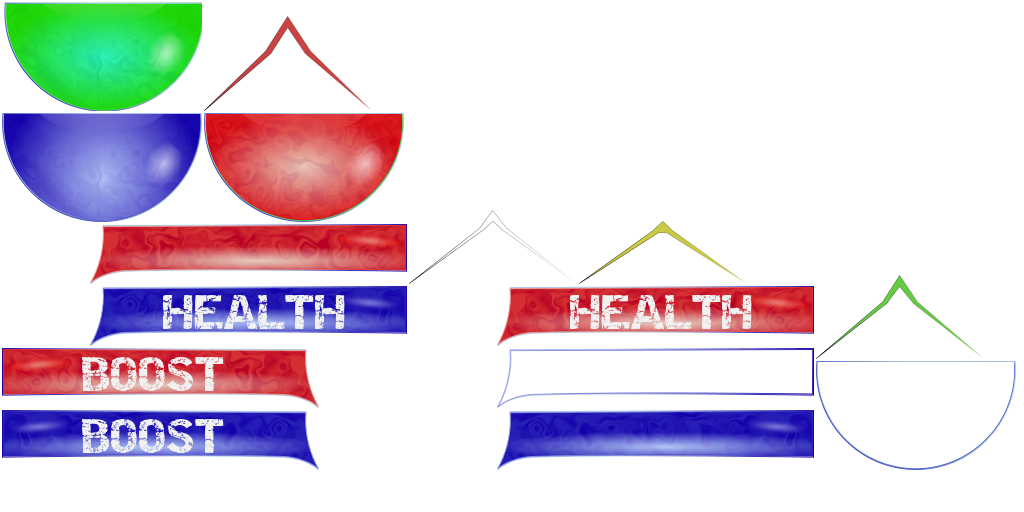
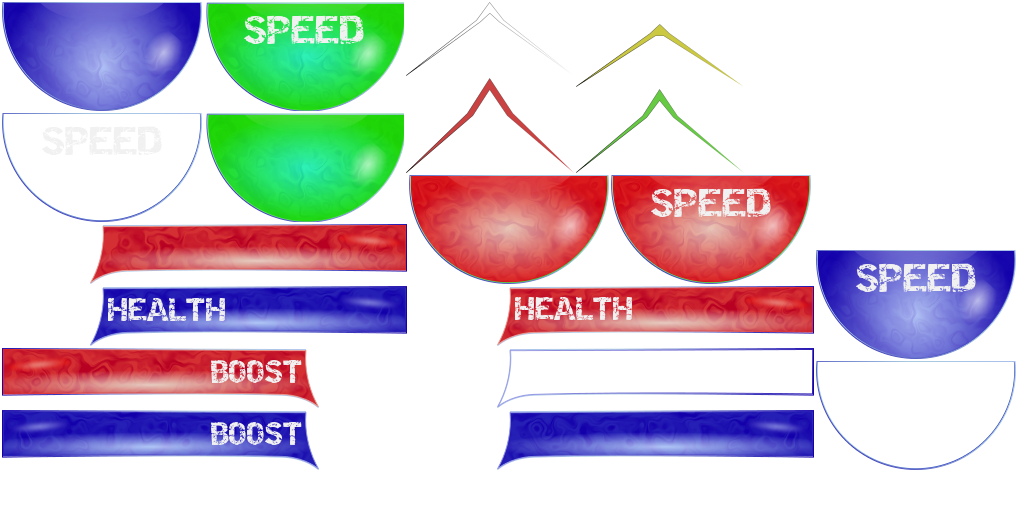
Fixed textBug

diff --git a/core/src/com/araceinspace/Screens/INGAMEScreen.java b/core/src/com/araceinspace/Screens/INGAMEScreen.java
@@ -242,9 +242,9 @@ public class INGAMEScreen extends Screen implements EventSender{
         speedLabel.setStyle(style3);
         speedLabel.setPosition((viewport.getScreenWidth()/2)-speedLabel.getWidth()/2, viewport.getScreenHeight()-speedLabel.getHeight()*1.5f);
 
-        stage.addActor(boostLabel);
-        stage.addActor(healthLabel);
-        stage.addActor(speedLabel);
+        //stage.addActor(boostLabel);
+        //stage.addActor(healthLabel);
+        //stage.addActor(speedLabel);
 
         touchPad = new Touchpad(10, skin, "default");
         touchPad.setBounds(15, 15, Gdx.graphics.getWidth()/2-20,Gdx.graphics.getWidth()/2-20);
@@ -340,20 +340,20 @@ public class INGAMEScreen extends Screen implements EventSender{
         Array<TextureAtlas.AtlasRegion> dirIndicatorYellowRegion = parent.parent.resourceManager.heroAtlas.findRegions("GhostIndicator/indicator-yellow");
         dirIndicatorYellow = dirIndicatorYellowRegion.get(0);
 
-        Array<TextureAtlas.AtlasRegion> ghostIndicatorOutlineRegion = parent.parent.resourceManager.heroAtlas.findRegions("GhostIndicator/ghostIndicator_empty");
+        Array<TextureAtlas.AtlasRegion> ghostIndicatorOutlineRegion = parent.parent.resourceManager.heroAtlas.findRegions("GhostIndicator/ghostIndicator_empty_text");
         velocityIndicatorOutlineTexture = ghostIndicatorOutlineRegion.get(0);
 
         velocityIndicatorOutline = new Image(velocityIndicatorOutlineTexture);
        // ghostIndicatorOutline.setPosition((viewport.getScreenWidth()/2)-ghostIndicatorOutline.getWidth()/2, viewport.getScreenHeight()-ghostIndicatorOutline.getHeight());
         velocityIndicatorOutline.setPosition(-velocityIndicatorOutline.getWidth()/2,(viewport.getScreenHeight()/2)-velocityIndicatorOutline.getHeight());
 
-        Array<TextureAtlas.AtlasRegion> ghostIndicatorRegion = parent.parent.resourceManager.heroAtlas.findRegions("GhostIndicator/ghostIndicator_fill");
+        Array<TextureAtlas.AtlasRegion> ghostIndicatorRegion = parent.parent.resourceManager.heroAtlas.findRegions("GhostIndicator/ghostIndicator_fill_text");
         velocityIndicatorTexture = ghostIndicatorRegion.get(0);
 
-        Array<TextureAtlas.AtlasRegion> ghostIndicatorGreenRegion = parent.parent.resourceManager.heroAtlas.findRegions("GhostIndicator/ghostIndicator_fill_green");
+        Array<TextureAtlas.AtlasRegion> ghostIndicatorGreenRegion = parent.parent.resourceManager.heroAtlas.findRegions("GhostIndicator/ghostIndicator_fill_green_text");
         velocityIndicatorGreenTexture = ghostIndicatorGreenRegion.get(0);
 
-        Array<TextureAtlas.AtlasRegion> ghostIndicatorRedRegion = parent.parent.resourceManager.heroAtlas.findRegions("GhostIndicator/ghostIndicator_red");
+        Array<TextureAtlas.AtlasRegion> ghostIndicatorRedRegion = parent.parent.resourceManager.heroAtlas.findRegions("GhostIndicator/ghostIndicator_red_text");
         velocityIndicatorRedTexture = ghostIndicatorRedRegion.get(0);
 
 
@@ -372,11 +372,11 @@ public class INGAMEScreen extends Screen implements EventSender{
 
        // healthMeterEmpty
 
-        Array<TextureAtlas.AtlasRegion> healthMeterBlueRegion = parent.parent.resourceManager.heroAtlas.findRegions("GhostIndicator/healthMeter_blue");
+        Array<TextureAtlas.AtlasRegion> healthMeterBlueRegion = parent.parent.resourceManager.heroAtlas.findRegions("GhostIndicator/healthMeter_blue_text");
         healthMeterBlue = healthMeterBlueRegion.get(0);
         healthMeterBlue.setRegionWidth(2+viewport.getScreenWidth()/2);
 
-        Array<TextureAtlas.AtlasRegion> healthMeterRedRegion = parent.parent.resourceManager.heroAtlas.findRegions("GhostIndicator/healthMeter_red");
+        Array<TextureAtlas.AtlasRegion> healthMeterRedRegion = parent.parent.resourceManager.heroAtlas.findRegions("GhostIndicator/healthMeter_red_text");
         healthMeterRed = healthMeterRedRegion.get(0);
         healthMeterRed.setRegionWidth(2+viewport.getScreenWidth()/2);
 
@@ -384,13 +384,13 @@ public class INGAMEScreen extends Screen implements EventSender{
         boostMeterEmpty = boostMeterEmptyRegion.get(0);
         boostMeterEmpty.flip(true, false);
 
-        Array<TextureAtlas.AtlasRegion> boostMeterBlueRegion = parent.parent.resourceManager.heroAtlas.findRegions("GhostIndicator/healthMeter_blue");
+        Array<TextureAtlas.AtlasRegion> boostMeterBlueRegion = parent.parent.resourceManager.heroAtlas.findRegions("GhostIndicator/boostMeter_blue_text");
         boostMeterBlue = boostMeterBlueRegion.get(0);
-        boostMeterBlue.flip(true, false);
+        boostMeterBlue.flip(false, false);
 
-        Array<TextureAtlas.AtlasRegion> boostMeterRedRegion = parent.parent.resourceManager.heroAtlas.findRegions("GhostIndicator/healthMeter_red");
+        Array<TextureAtlas.AtlasRegion> boostMeterRedRegion = parent.parent.resourceManager.heroAtlas.findRegions("GhostIndicator/boostMeter_red_text");
         boostMeterRed = boostMeterRedRegion.get(0);
-        boostMeterRed.flip(true, false);
+        boostMeterRed.flip(false, false);
 
         float hclipWidth = getHealthMeterWidth();
         float hclipX = (viewport.getScreenWidth()/2);

diff --git a/core/src/com/araceinspace/Managers/GameStateManager.java b/core/src/com/araceinspace/Managers/GameStateManager.java
@@ -22,8 +22,8 @@ public class GameStateManager {
         parent = p;
         stateStack = new Stack<GAME_STATE>();
         parent.levelManager.setLevel(1);
-        setCurrentState(GAME_STATE.TITLE_SCREEN);
-        //setCurrentState(GAME_STATE.CREDITS);
+        //setCurrentState(GAME_STATE.TITLE_SCREEN);
+        setCurrentState(GAME_STATE.INGAME);
 
     }
 
